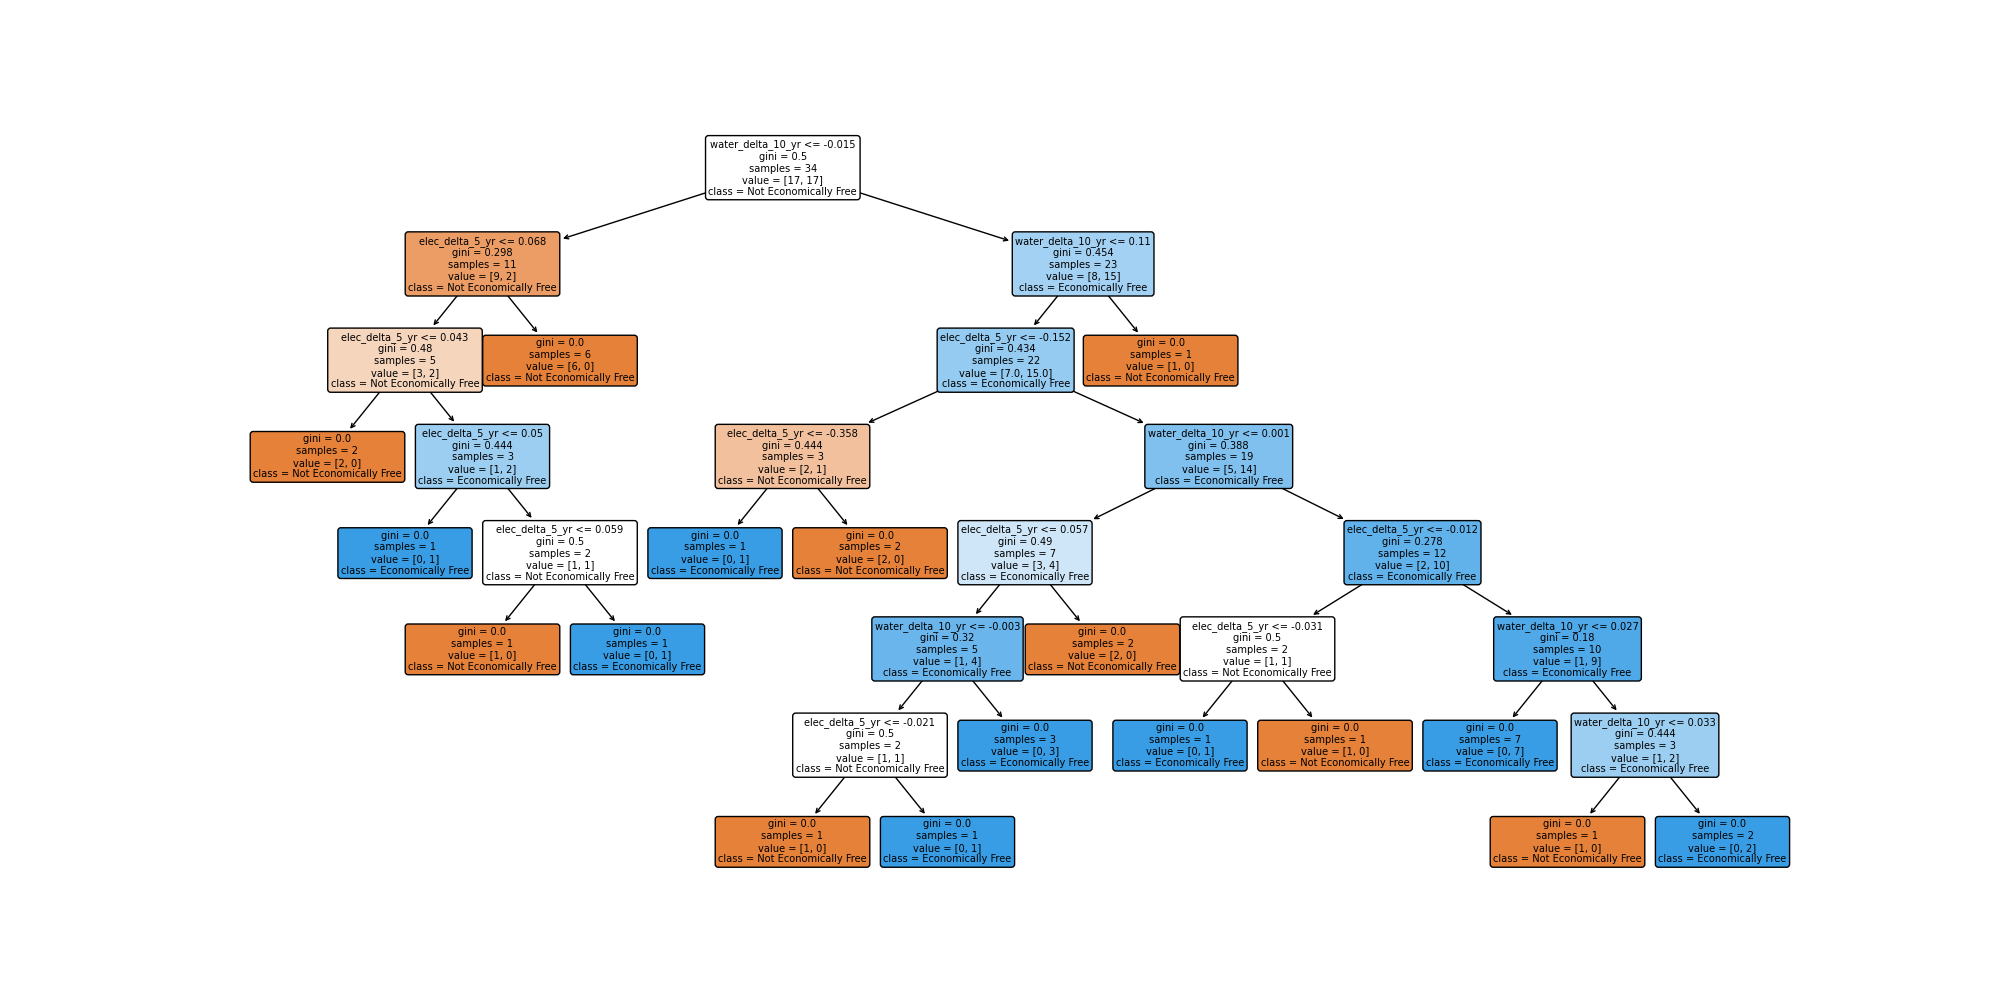
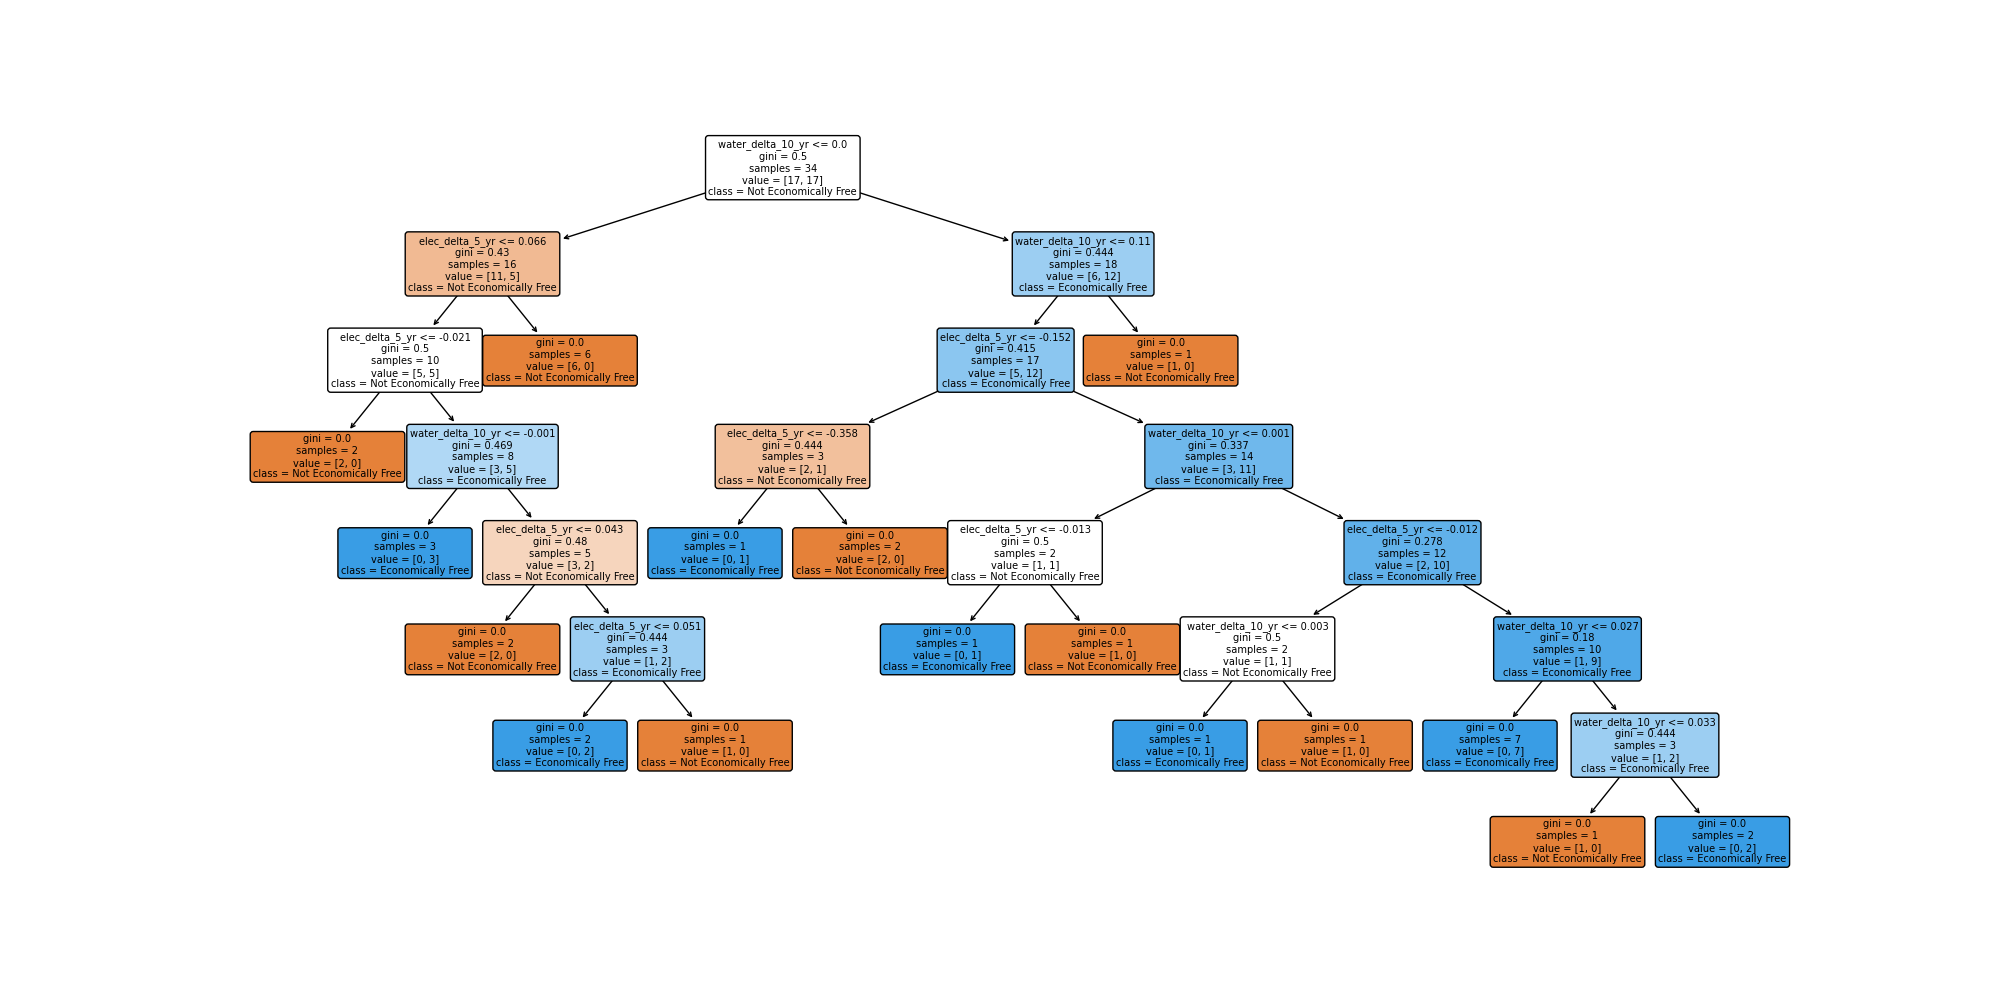
feat(fillna): Fill NaN with current data before taking multiyear deltas

diff --git a/src/viz.py b/src/viz.py
@@ -1,0 +1,46 @@
+import pandas as pd
+from matplotlib import pyplot as plt
+from statsmodels.regression.linear_model import RegressionResults, OLS
+
+from src.data import ARTIFACT_DIR
+
+
+def plot_linear_regression(
+    data: pd.DataFrame,
+    model: OLS,
+    results: RegressionResults,
+    y_var: str,
+    show: bool = False,
+    save: bool = True,
+):
+    num_plots = len(model.exog_names) - 1  # subtract 1 for the intercept
+    num_rows = int(num_plots**0.5)
+    num_cols = num_plots // num_rows + (num_plots % num_rows > 0)
+
+    fig, axs = plt.subplots(num_rows, num_cols, figsize=(10, 6))
+
+    # Create a new DataFrame for plotting that includes interaction terms
+    plot_data = data.copy()
+    for col in model.exog_names:
+        if ":" in col:  # interaction term
+            var1, var2 = col.split(":")
+            plot_data[col] = data[var1] * data[var2]
+
+    for i, col in enumerate(model.exog_names):
+        if col == "Intercept":
+            continue
+        if num_rows == 1 or num_cols == 1:
+            ax = axs[(i - 1) % num_cols]  # 1-dimensional indexing
+        else:
+            ax = axs[(i - 1) // num_cols, (i - 1) % num_cols]  # 2-dimensional indexing
+        ax.plot(plot_data[col], results.params[i] * plot_data[col], label=col)
+        ax.scatter(plot_data[col], plot_data[y_var], color="gray")
+        ax.set_xlabel(col)
+        ax.set_ylabel(y_var)
+        ax.legend()
+
+    plt.tight_layout()
+    if save:
+        plt.savefig(ARTIFACT_DIR / f"{y_var}-Regression.png")
+    if show:
+        plt.show()

diff --git a/src/analysis.py b/src/analysis.py
@@ -16,6 +16,7 @@ from statsmodels.regression.linear_model import RegressionResults
 import matplotlib.pyplot as plt
 from sklearn.tree import plot_tree
 from src.data import get_dataset, ARTIFACT_DIR
+from src.viz import plot_linear_regression
 
 IS_ECONOMICALLY_FREE_DEFAULT_THRESHOLD = 70  # p85
 
@@ -87,14 +88,16 @@ if __name__ == "__main__":
     data = get_dataset()
 
     # Change from 2022
-    _, linear_results = build_linear_econ_predictor(data)
-    print(linear_results.summary())
+    change_model, change_results = build_linear_econ_predictor(data)
+    print(change_results.summary())
+    plot_linear_regression(data, change_model, change_results, "Change_from_2022")
 
     # Govt Integrity
-    _, linear_results = build_linear_econ_predictor(
+    govt_model, govt_results = build_linear_econ_predictor(
         data, "Govt_Integrity ~ elec_delta_10_yr + WS_PPL_W_SM_2021:elec_delta_10_yr"
     )
-    print(linear_results.summary())
+    print(govt_results.summary())
+    plot_linear_regression(data, govt_model, govt_results, "Govt_Integrity")
 
     # Is this country very "economically free"?
     tree, _, _ = build_econ_classifier(data)

diff --git a/src/data.py b/src/data.py
@@ -151,7 +151,37 @@ def get_final_features(
     return feature_df
 
 
+def fill_na_2022(data: pd.DataFrame) -> pd.DataFrame:
+    """
+    This will put our delta values over time to zero for missing data,
+    instead of 1.
+    :param data:
+    :return:
+    """
+    water_cols_to_fill = [
+        col
+        for col in data.columns
+        if col.startswith("WS_PPL") and not col.endswith("2022")
+    ]
+    for c in water_cols_to_fill:
+        data[c].fillna(data["WS_PPL_W_SM_2022"], inplace=True)
+
+    elec_cols_to_fill = [
+        col
+        for col in data.columns
+        if col.startswith("Net_Elec") and not col.endswith("2022")
+    ]
+    for c in elec_cols_to_fill:
+        data[c].fillna(
+            data["Net_Electricity_Production_Electricity_GWh_2022"], inplace=True
+        )
+
+    return data
+
+
 def with_multiyear_deltas(data: pd.DataFrame) -> pd.DataFrame:
+    data = fill_na_2022(data)
+
     data["water_delta_10_yr"] = (
         data["WS_PPL_W_SM_2022"] - data["WS_PPL_W_SM_2012"]
     ) / data["WS_PPL_W_SM_2022"]
